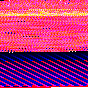
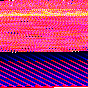
Need to find a correct way to get groups

diff --git a/objimg.js b/objimg.js
@@ -166,63 +166,17 @@
 
 					console.log(this.datas);
 
+					var object3D = new THREE.Object3D();
+
 					for( var object = 0, length = this.datas.objects.length; object < length; object++ ){
 
-						var geometry = new THREE.Geometry();
-
-						for( var face = 0, faceLenght = this.datas.objects[object].faces.length; face < faceLenght; face++ ){
-
-							var faceID = this.datas.objects[object].faces[face];
-
-							var verticesID = this.datas.faces[faceID].vertices;
-							var texturesID = this.datas.faces[faceID].textures;
-							var normalsID = this.datas.faces[faceID].normals;
-
-							var vertexA = this.datas.vertices[verticesID.a];
-							var vertexB = this.datas.vertices[verticesID.b];
-							var vertexC = this.datas.vertices[verticesID.c];
-
-							geometry.vertices.push(new THREE.Vector3(vertexA.x, vertexA.y, vertexA.z), new THREE.Vector3(vertexB.x, vertexB.y, vertexB.z), new THREE.Vector3(vertexC.x, vertexC.y, vertexC.z));
-
-							var normals = null;
-
-							if( this.datas.normals.length > 0 ){
-
-								normals = [
-									this.datas.normals[normalsID.a],
-									this.datas.normals[normalsID.b],
-									this.datas.normals[normalsID.c],
-								];
-
-							};
-
-							geometry.faces.push(new THREE.Face3(vertexA, vertexB, vertexC, normals));
-
-							if( this.datas.textures.length > 0 ){
-
-								var uvA = this.datas.textures[texturesID.a];
-								var uvB = this.datas.textures[texturesID.b];
-								var uvC = this.datas.textures[texturesID.c];
-
-								if( uvA && uvB && uvC ){
-
-									geometry.faceVertexUvs[0].push([
-										new THREE.Vector2(uvA.u, uvA.v),
-										new THREE.Vector2(uvB.u, uvB.v),
-										new THREE.Vector2(uvC.u, uvC.v),
-									]);
-
-								};
-
-							};
-
-						};
-
-						var mesh = new THREE.Mesh(geometry, new THREE.MeshPhongMaterial());
-
-						this.object3D.add(mesh);
+						console.log(this.datas.objects[object]);
 
 					};
+
+					this.object3D = object3D;
+
+					return this;
 
 					// var geometry = new THREE.Geometry();
 
@@ -274,9 +228,9 @@
 
 					// geometry.computeBoundingBox();
 
-					var mesh = new THREE.Mesh(geometry, new THREE.MeshPhongMaterial());
+					// var mesh = new THREE.Mesh(geometry, new THREE.MeshPhongMaterial());
 
-					this.object3D.add(mesh);
+					// this.object3D.add(mesh);
 
 				};
 
@@ -454,22 +408,19 @@
 
 		var groups = new Array(OBJImg.fn.getPixelValue(pixelIndex++, pixels));
 
-		for( var group = 0, length = groups.length; group < length; group++ ){
+		// for( var group = 0, length = groups.length; group < length; group++ ){
 
-			var groupIndex = 0;
+		// 	var groupIndex = 0;
 
-			for( var pass = 0; pass < faceSplitting; pass++ ){
+		// 	for( var pass = 0; pass < faceSplitting; pass++ ){
 
-				groupIndex += OBJImg.fn.getPixelValue(pixelIndex++, pixels);
+		// 		groupIndex += OBJImg.fn.getPixelValue(pixelIndex++, pixels);
 
-			};
+		// 	};
 
-			groups[group] = {
-				index: groupIndex,
-				faces: new Array()
-			};
+		// 	groups[group] = groupIndex
 
-		};
+		// };
 
 		var pivot = {
 			x: OBJImg.fn.getPixelValue(pixelIndex++, pixels) / vertexMultiplicator,
@@ -577,7 +528,7 @@
 
 				if( face >= objects[object].index ){
 
-					objects[object].faces.push(face);
+					objects[object].faces.push(faces[face]);
 
 					break;
 

diff --git a/index.html b/index.html
@@ -90,7 +90,7 @@
 
 			var generatedMesh = null;
 
-			var imgFile = "lara";
+			var imgFile = "altair";
 
 			// OBJImg.generateImg("models/" + imgFile + ".obj", function( datas ){
 
